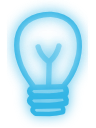
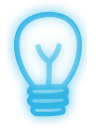
Smooth bulb animation

diff --git a/domovod/widgets/dimmer.py b/domovod/widgets/dimmer.py
@@ -17,7 +17,7 @@ class Dimmer(RelativeLayout):
     def __init__(self, label, value=0):
         super(Dimmer, self).__init__()
         self.textures = {k: CoreImage('data/bulb/%03d.png' % k).texture
-                         for k in range(0, 101, 5)}
+                         for k in range(0, 101)}
         self.slider = Slider(min=0, max=100, step=1, orientation='vertical')
         self.slider.size_hint = (.3, None)
         self.image = ImageButton(allow_stretch=True)
@@ -36,7 +36,7 @@ class Dimmer(RelativeLayout):
         self.saved_state = 75
 
     def change(self, value):
-        self.image.texture = self.textures[int(value // 5 * 5)]
+        self.image.texture = self.textures[int(value)]
 
     def on_image_press(self):
         if self.slider.value == 0:
